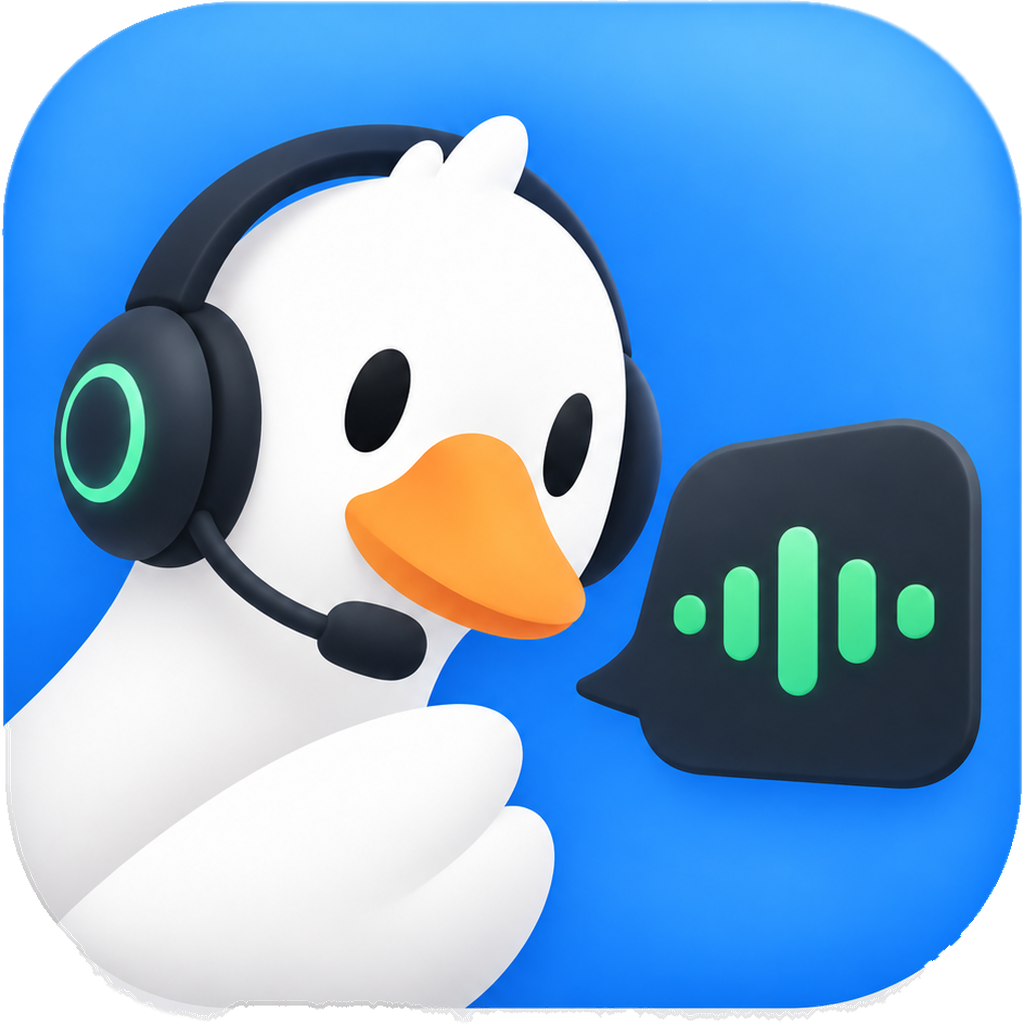
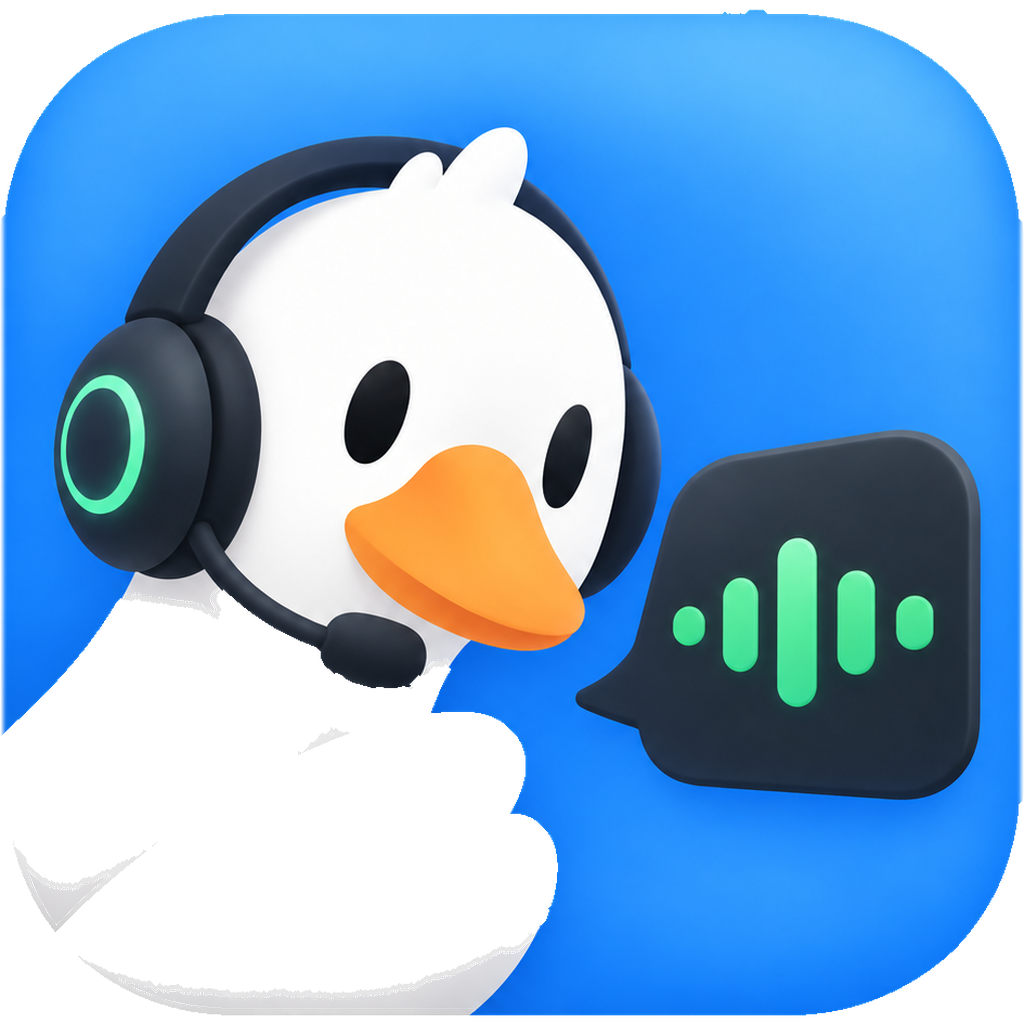
refactor: rename app target to GooseAgent and bundle id to dev.eachann.goose-herdr
Also move local checkout path to goose-herdr and retighten the app icon mask.

diff --git a/Sources/GooseAgent/TerminalProcess.swift b/Sources/GooseAgent/TerminalProcess.swift
@@ -13,10 +13,10 @@ final class TerminalProcess: @unchecked Sendable {
     private var readSource: DispatchSourceRead?
     private var exitSource: DispatchSourceProcess?
     /// Reads, the exit watch, and EOF handling are serialized here.
-    private let ioQueue = DispatchQueue(label: "dev.bybee.herdrm.terminal-process.io")
+    private let ioQueue = DispatchQueue(label: "dev.eachann.goose-herdr.terminal-process.io")
     /// Writes go through a dedicated queue so a blocked child can never stall a
     /// caller (keyboard bytes arrive on Ghostty's IO thread).
-    private let writeQueue = DispatchQueue(label: "dev.bybee.herdrm.terminal-process.write")
+    private let writeQueue = DispatchQueue(label: "dev.eachann.goose-herdr.terminal-process.write")
     private let stateLock = NSLock()
     private var exitReported = false
 

diff --git a/Sources/GooseAgent/SpaceRowDrag.swift b/Sources/GooseAgent/SpaceRowDrag.swift
@@ -147,9 +147,9 @@ struct TerminalRowDragHost: View {
 }
 
 final class SidebarRowDragNSView: NSView, NSDraggingSource {
-    static let spacePasteboardType = NSPasteboard.PasteboardType("dev.bybee.herdrm.space-id")
-    static let agentPasteboardType = NSPasteboard.PasteboardType("dev.bybee.herdrm.agent-id")
-    static let terminalPasteboardType = NSPasteboard.PasteboardType("dev.bybee.herdrm.terminal-id")
+    static let spacePasteboardType = NSPasteboard.PasteboardType("dev.eachann.goose-herdr.space-id")
+    static let agentPasteboardType = NSPasteboard.PasteboardType("dev.eachann.goose-herdr.agent-id")
+    static let terminalPasteboardType = NSPasteboard.PasteboardType("dev.eachann.goose-herdr.terminal-id")
 
     var pasteboardType = SidebarRowDragNSView.spacePasteboardType
     var entryID = ""

diff --git a/Sources/GooseAgentMobile/DeviceKey.swift b/Sources/GooseAgentMobile/DeviceKey.swift
@@ -3,13 +3,13 @@ import Foundation
 import os
 import Security
 
-private let keyLog = Logger(subsystem: "dev.bybee.herdrm.ios", category: "devicekey")
+private let keyLog = Logger(subsystem: "dev.eachann.goose-herdr.ios", category: "devicekey")
 
 /// This phone's SSH identity: one Ed25519 key generated on device, private
 /// bytes kept in the Keychain and never exported. Enrolling a Mac means
 /// appending `authorizedKeysLine` to that Mac's ~/.ssh/authorized_keys.
 enum DeviceKey {
-    private static let service = "dev.bybee.herdrm.ios.ssh"
+    private static let service = "dev.eachann.goose-herdr.ios.ssh"
     private static let account = "device-ed25519-private-key"
 
     static func ensure() -> Curve25519.Signing.PrivateKey {

diff --git a/Sources/GooseAgentMobile/MobileDevice.swift b/Sources/GooseAgentMobile/MobileDevice.swift
@@ -102,7 +102,7 @@ final class MobileDeviceStore {
 /// `kSecAttrAccessibleAfterFirstUnlockThisDeviceOnly` deliberately keeps them
 /// out of iCloud Keychain and device-to-device migration.
 enum MobileSecretStore {
-    private static let service = "dev.bybee.herdrm.ios.ssh"
+    private static let service = "dev.eachann.goose-herdr.ios.ssh"
 
     static func password(for deviceID: UUID) -> String? {
         var query = baseQuery(deviceID: deviceID)

diff --git a/Sources/GooseAgent/ContentView.swift b/Sources/GooseAgent/ContentView.swift
@@ -3,7 +3,7 @@ import HerdrKit
 import SwiftUI
 
 struct RootView: View {
-    // Owned by AppDelegate so it outlives the window — see AppDelegate in HerdrMApp.swift.
+    // Owned by AppDelegate so it outlives the window — see AppDelegate in GooseAgentApp.swift.
     @ObservedObject var model: AppModel
     // Deliberately not persisted: the app always launches with the sidebar visible.
     @State private var sidebarCollapsed = false

diff --git a/Sources/GooseAgent/GooseAgentApp.swift b/Sources/GooseAgent/GooseAgentApp.swift
@@ -56,7 +56,7 @@ extension FocusedValues {
 }
 
 @main
-struct HerdrMApp: App {
+struct GooseAgentApp: App {
     @NSApplicationDelegateAdaptor(AppDelegate.self) private var appDelegate
     @AppStorage("app.theme") private var themePreference = "system"
     @FocusedValue(\.appModel) private var focusedModel

diff --git a/Sources/GooseAgentMobile/GooseAgentMobileApp.swift b/Sources/GooseAgentMobile/GooseAgentMobileApp.swift
@@ -1,7 +1,7 @@
 import SwiftUI
 
 @main
-struct HerdrMobileApp: App {
+struct GooseAgentMobileApp: App {
     @State private var model = MobileAppModel()
     @Environment(\.scenePhase) private var scenePhase
 
